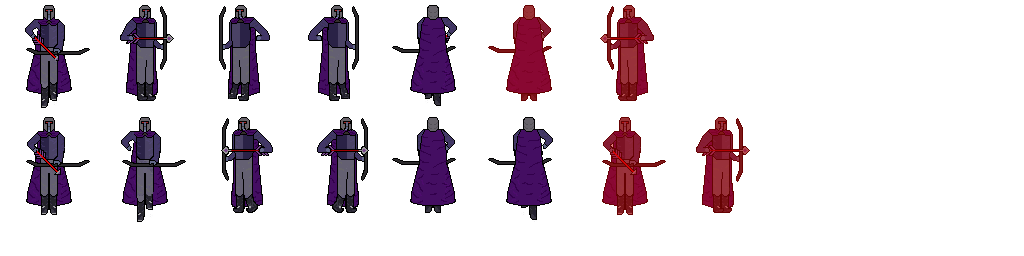
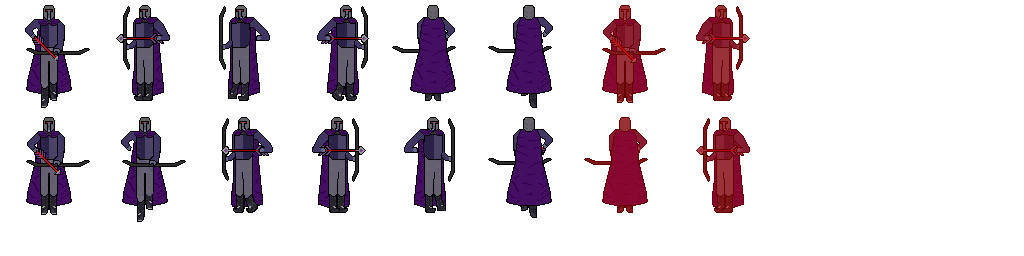
Fixed guard animation - 1 sprite was facing right when should be left

diff --git a/source/core/src/main/com/deco2800/game/entities/factories/NPCFactory.java b/source/core/src/main/com/deco2800/game/entities/factories/NPCFactory.java
@@ -63,7 +63,7 @@ public class NPCFactory {
 
         AnimationRenderComponent animator =
                 new AnimationRenderComponent(
-                        ServiceLocator.getResourceService().getAsset("images/meleeAnimationsTextured.atlas", TextureAtlas.class));
+                        ServiceLocator.getResourceService().getAsset("images/meleeFinal.atlas", TextureAtlas.class));
         animator.addAnimation("moveLeft", 0.4f, Animation.PlayMode.LOOP);
         animator.addAnimation("moveRight", 0.4f, Animation.PlayMode.LOOP);
         animator.addAnimation("moveUp", 0.4f, Animation.PlayMode.LOOP);
@@ -132,14 +132,14 @@ public class NPCFactory {
 
         AnimationRenderComponent animator =
                 new AnimationRenderComponent(
-                        ServiceLocator.getResourceService().getAsset("images/guardElf.atlas", TextureAtlas.class));
-        animator.addAnimation("moveLeft", 0.1f, Animation.PlayMode.NORMAL);
-        animator.addAnimation("moveRight", 0.1f, Animation.PlayMode.NORMAL);
-        animator.addAnimation("moveUp", 0.1f, Animation.PlayMode.NORMAL);
-        animator.addAnimation("moveDown", 0.1f, Animation.PlayMode.NORMAL);
-        animator.addAnimation("frontDeath", 0.5f, Animation.PlayMode.NORMAL);
-        animator.addAnimation("leftDeath", 0.5f, Animation.PlayMode.NORMAL);
-        animator.addAnimation("rightDeath", 0.5f, Animation.PlayMode.NORMAL);
+                        ServiceLocator.getResourceService().getAsset("images/guardFinal.atlas", TextureAtlas.class));
+        animator.addAnimation("moveLeft", 0.1f, Animation.PlayMode.LOOP);
+        animator.addAnimation("moveRight", 0.1f, Animation.PlayMode.LOOP);
+        animator.addAnimation("moveUp", 0.1f, Animation.PlayMode.LOOP);
+        animator.addAnimation("moveDown", 0.1f, Animation.PlayMode.LOOP);
+        animator.addAnimation("frontDeath", 0.5f, Animation.PlayMode.LOOP);
+        animator.addAnimation("leftDeath", 0.5f, Animation.PlayMode.LOOP);
+        animator.addAnimation("rightDeath", 0.5f, Animation.PlayMode.LOOP);
 
 
         elfGuard
@@ -184,7 +184,7 @@ public class NPCFactory {
 
         AnimationRenderComponent animator =
                 new AnimationRenderComponent(
-                        ServiceLocator.getResourceService().getAsset("images/meleeElf.atlas", TextureAtlas.class));
+                        ServiceLocator.getResourceService().getAsset("images/meleeFinal.atlas", TextureAtlas.class));
         animator.addAnimation("moveLeft", 0.1f, Animation.PlayMode.NORMAL);
         animator.addAnimation("moveRight", 0.1f, Animation.PlayMode.NORMAL);
         animator.addAnimation("moveUp", 0.1f, Animation.PlayMode.NORMAL);
@@ -239,7 +239,7 @@ public class NPCFactory {
 
         AnimationRenderComponent animator =
                 new AnimationRenderComponent(
-                        ServiceLocator.getResourceService().getAsset("images/meleeElf.atlas", TextureAtlas.class));
+                        ServiceLocator.getResourceService().getAsset("images/meleeFinal.atlas", TextureAtlas.class));
         animator.addAnimation("moveLeft", 0.1f, Animation.PlayMode.NORMAL);
         animator.addAnimation("moveRight", 0.1f, Animation.PlayMode.NORMAL);
         animator.addAnimation("moveUp", 0.1f, Animation.PlayMode.NORMAL);
@@ -303,7 +303,7 @@ public class NPCFactory {
 
         AnimationRenderComponent animator =
                 new AnimationRenderComponent(
-                        ServiceLocator.getResourceService().getAsset("images/rangedElf.atlas", TextureAtlas.class));
+                        ServiceLocator.getResourceService().getAsset("images/rangedFinal.atlas", TextureAtlas.class));
 
         if (type.equals("fastArrow")) {
             elf.setEntityType("assassin");
@@ -378,7 +378,7 @@ public class NPCFactory {
 
         AnimationRenderComponent animator =
                 new AnimationRenderComponent(
-                        ServiceLocator.getResourceService().getAsset("images/bossFixed.atlas", TextureAtlas.class));
+                        ServiceLocator.getResourceService().getAsset("images/bossFinal.atlas", TextureAtlas.class));
         animator.addAnimation("moveLeft", 0.1f, Animation.PlayMode.NORMAL);
         animator.addAnimation("moveRight", 0.1f, Animation.PlayMode.NORMAL);
         animator.addAnimation("moveUp", 0.1f, Animation.PlayMode.NORMAL);

diff --git a/source/core/src/main/com/deco2800/game/areas/ForestGameArea.java b/source/core/src/main/com/deco2800/game/areas/ForestGameArea.java
@@ -71,7 +71,10 @@ public class ForestGameArea extends GameArea {
             "images/fireball/fireballAinmation.png",
             "images/rangedFixed.png",
             "images/bossFixed.png",
-            "images/meleeAnimationsTextured.png"
+            "images/meleeAnimationsTextured.png",
+            "images/meleeFinal.png",
+            "images/assassinFinal.png",
+            "images/guardFinal.png"
 
 
     };
@@ -82,7 +85,8 @@ public class ForestGameArea extends GameArea {
     private static final String[] forestTextureAtlases = {
             "images/terrain_iso_grass.atlas", "crate/crateHitBreak.atlas", "images/elf.atlas",
             "images/player.atlas", "images/bossEnemy.atlas", "images/bossAttack.atlas", "images/minionEnemy.atlas", "images/meleeElf.atlas",
-            "images/guardElf.atlas", "images/rangedElf.atlas", "images/fireball/fireballAinmation.atlas", "images/rangedFixed.atlas", "images/bossFixed.atlas", "images/meleeAnimationsTextured.atlas"
+            "images/guardElf.atlas", "images/rangedElf.atlas", "images/fireball/fireballAinmation.atlas", "images/rangedFixed.atlas", "images/bossFixed.atlas", "images/meleeAnimationsTextured.atlas",
+            "images/meleeFinal.atlas", "images/assassinFinal.atlas", "images/guardFinal.atlas"
 
 
     };
@@ -121,7 +125,7 @@ public class ForestGameArea extends GameArea {
         spawnPlayer();
         spawnCrate();
         spawnMeleeElf();
-//        spawnElfGuard();
+        spawnElfGuard();
 //        spawnRangedElf();
 //        spawnAssassinElf();
 //        spawnAnchoredElf();
